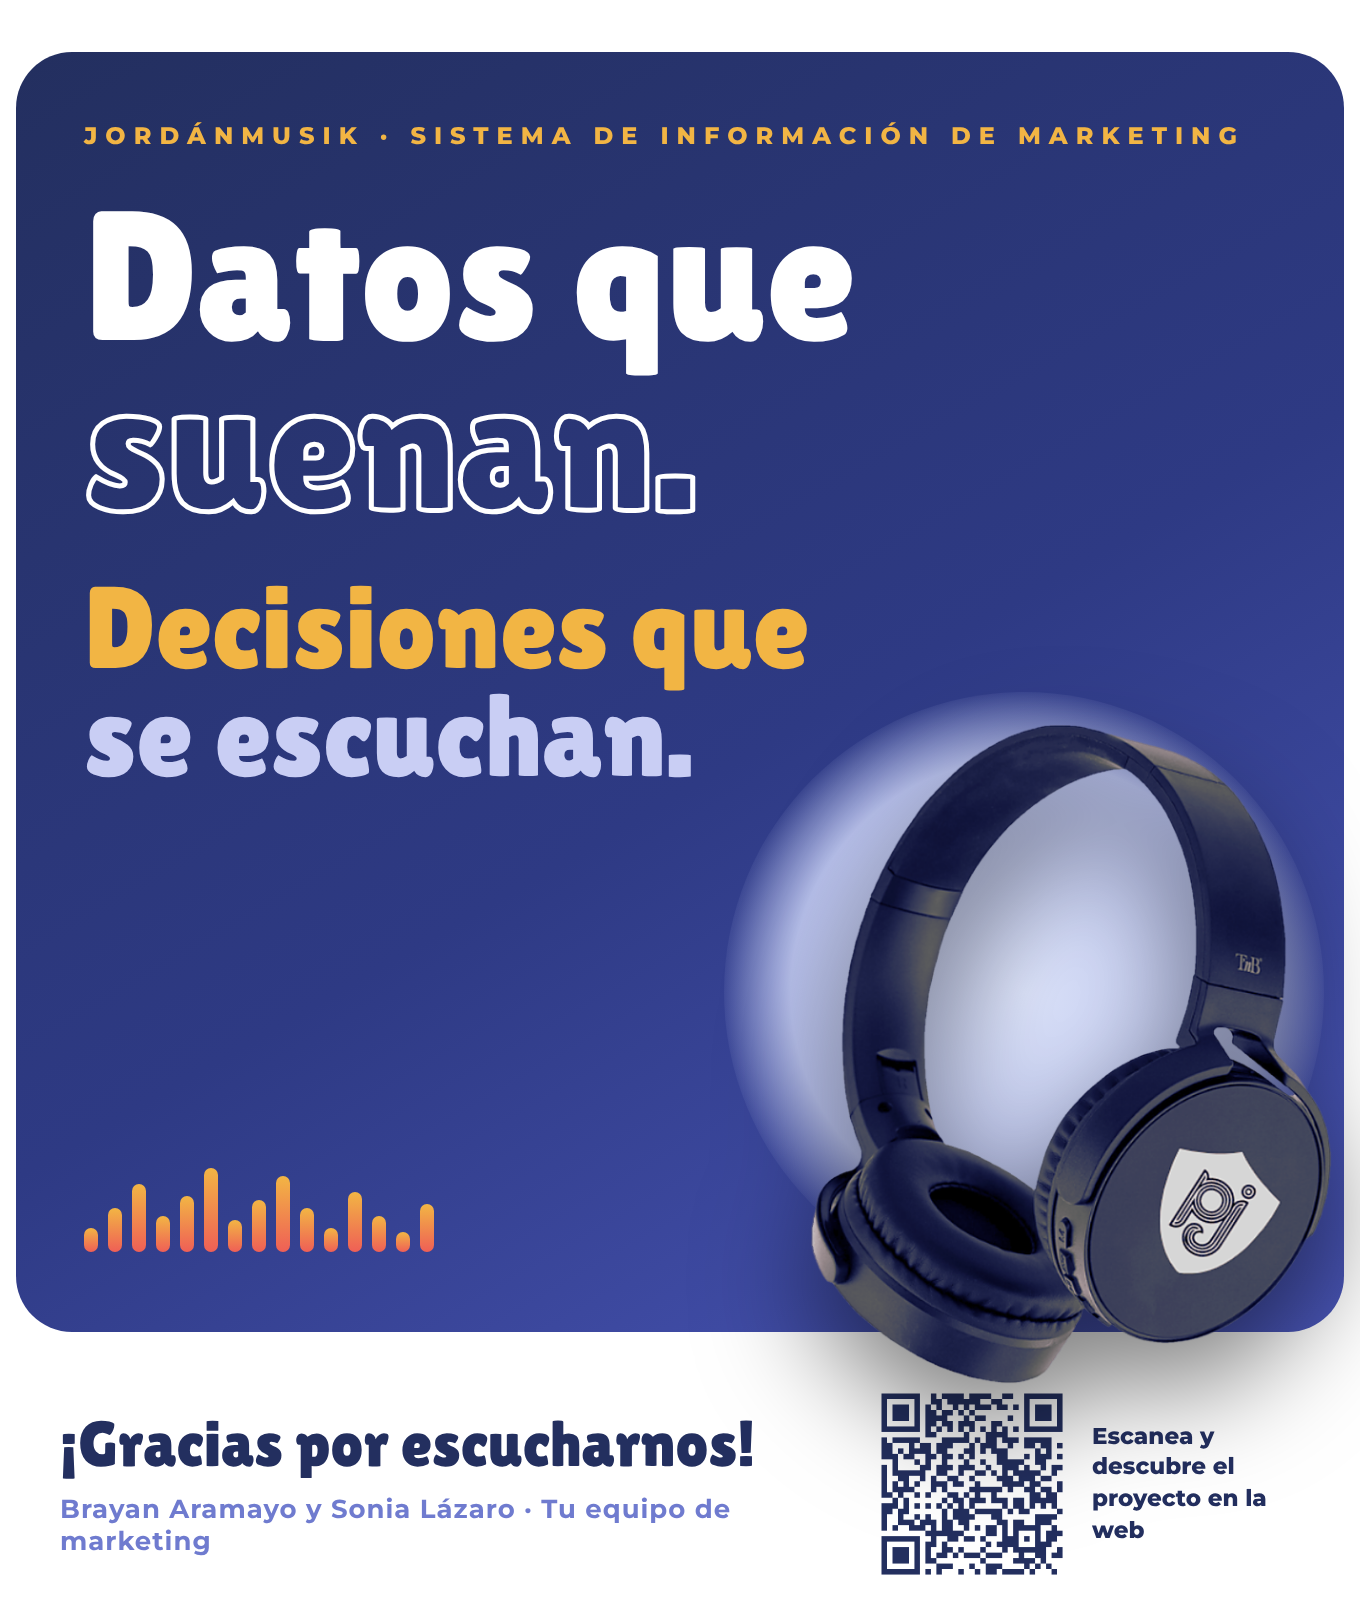
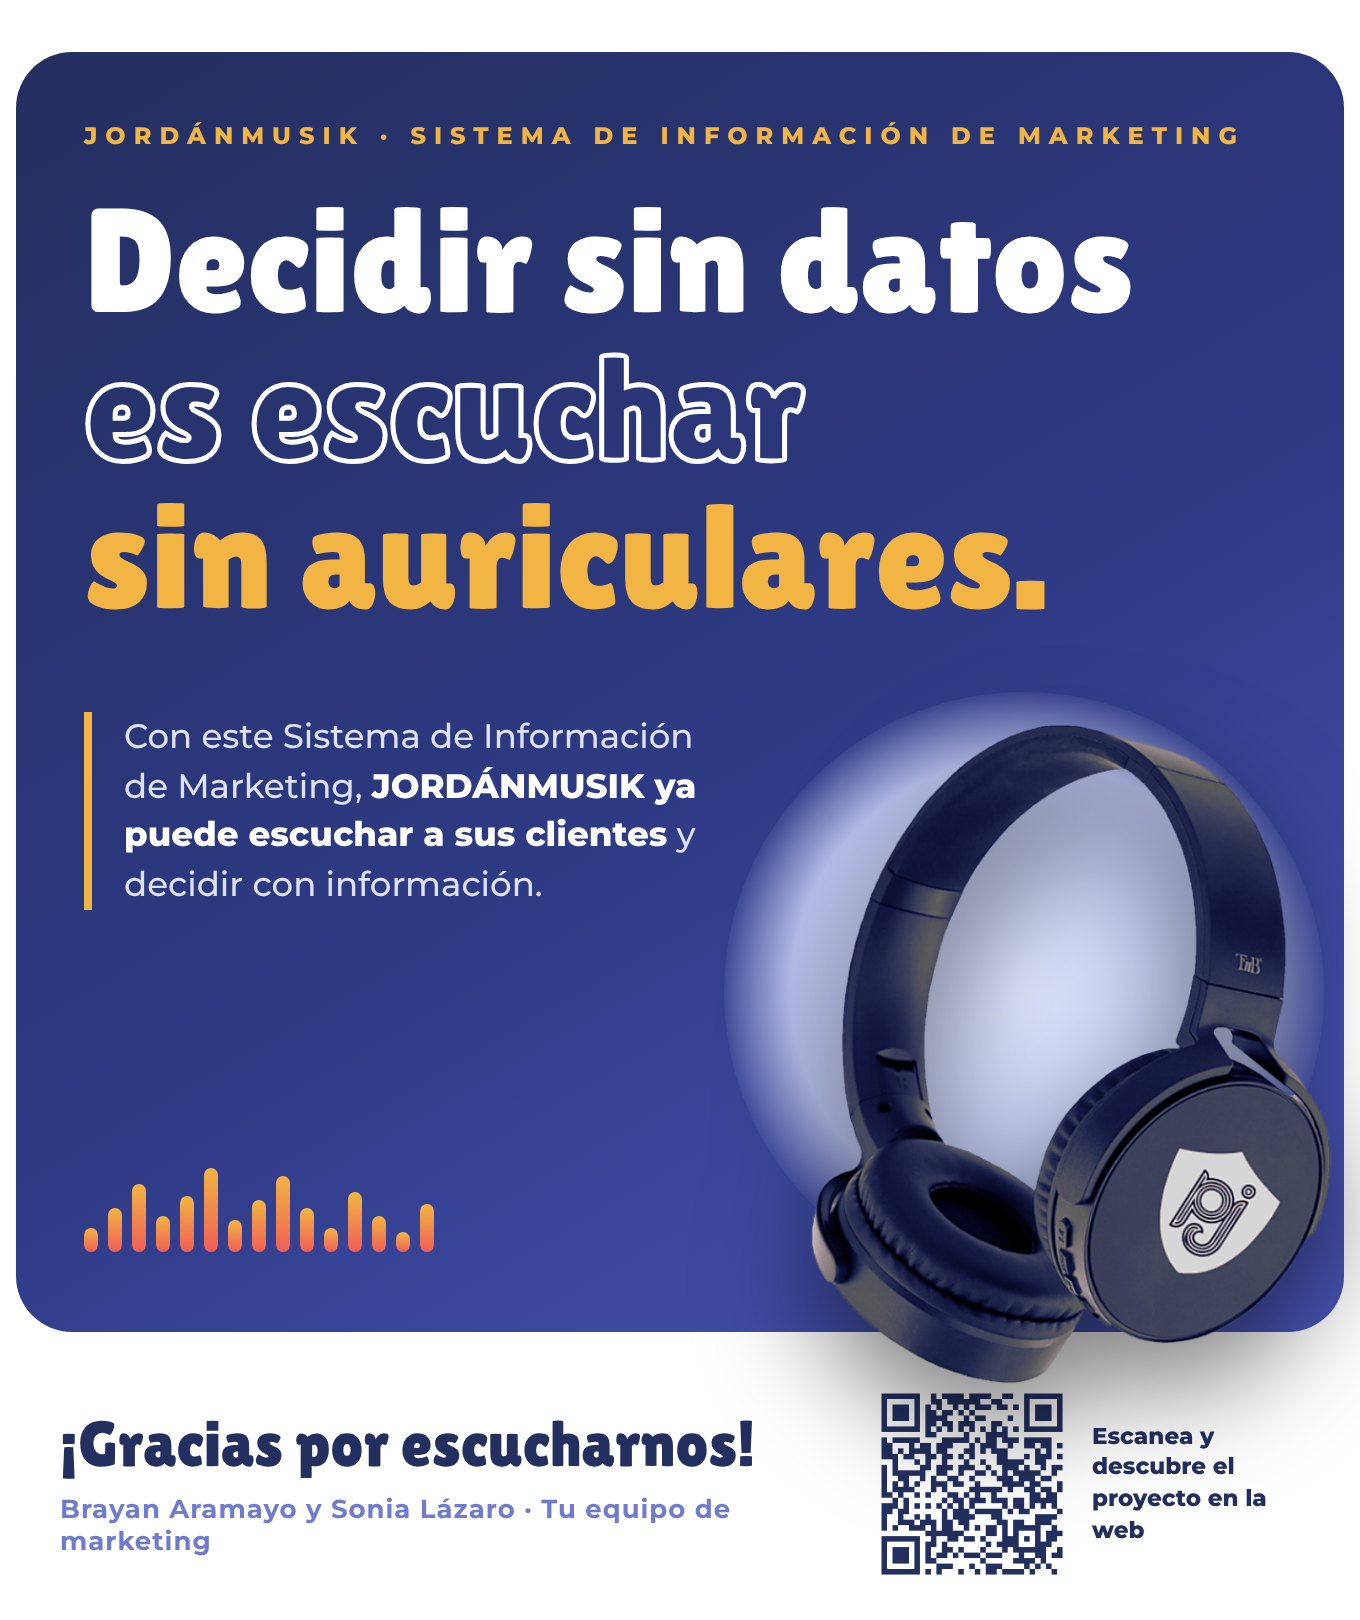
Página final con el eslogan «Decidir sin datos es escuchar sin auriculares»
Claude-Session: https://claude.ai/code/session_01QoRa6H288JEqWWG4NNqZ48

Changed region(s): [[0.0618, 0.1235, 0.8338, 0.5556]]

diff --git a/final/diseno_gracias.html b/final/diseno_gracias.html
@@ -8,12 +8,14 @@ body{background:transparent;font-family:Mont,sans-serif;color:var(--navy)}
 .hero{position:relative;background:linear-gradient(150deg,#232F5F 0%,#2E3A84 55%,#4A56B8 100%);border-radius:28px;height:640px;color:#fff;overflow:visible}
 .hero .k{position:absolute;left:34px;top:34px;font-size:12px;font-weight:800;letter-spacing:4px;color:var(--gold)}
 .slogan{position:absolute;left:34px;top:70px;z-index:2;font-family:Lilita;font-weight:400;line-height:.92}
-.slogan .l1{font-size:92px;display:block}
-.slogan .l2{font-size:92px;display:block;color:transparent;-webkit-text-stroke:2.5px #fff}
-.slogan .l3{font-size:58px;display:block;margin-top:22px;color:var(--gold)}
+.slogan .l1{font-size:74px;display:block}
+.slogan .l2{font-size:74px;display:block;margin-top:6px;color:transparent;-webkit-text-stroke:2.5px #fff}
+.slogan .l3{font-size:74px;display:block;margin-top:6px;color:var(--gold)}
 .slogan .l4{font-size:58px;display:block;color:#C9CEF4}
 .disc{position:absolute;right:10px;bottom:20px;width:300px;height:300px;border-radius:50%;background:radial-gradient(circle,#DCE3FA 0%,#B9C2EE 55%,rgba(185,194,238,0) 72%)}
 .hero img{position:absolute;right:6px;bottom:-26px;height:330px;filter:drop-shadow(0 24px 28px rgba(0,0,0,.5))}
+.sub{position:absolute;left:34px;top:330px;width:330px;font-size:17px;line-height:1.45;font-weight:500;color:#DDE2F8;padding-left:16px;border-left:4px solid var(--gold);z-index:2}
+.sub b{color:#fff;font-weight:800}
 .wave{position:absolute;left:34px;bottom:40px;display:flex;gap:5px;align-items:flex-end;height:46px}
 .wave i{display:block;width:7px;border-radius:4px;background:linear-gradient(180deg,#F2B544,#EF5F56)}
 .foot{display:grid;grid-template-columns:1fr auto;gap:16px;align-items:stretch}
@@ -27,11 +29,11 @@ body{background:transparent;font-family:Mont,sans-serif;color:var(--navy)}
  <div class="hero">
   <div class="k">JORDÁNMUSIK · SISTEMA DE INFORMACIÓN DE MARKETING</div>
   <div class="slogan">
-   <span class="l1">Datos que</span>
-   <span class="l2">suenan.</span>
-   <span class="l3">Decisiones que</span>
-   <span class="l4">se escuchan.</span>
+   <span class="l1">Decidir sin datos</span>
+   <span class="l2">es escuchar</span>
+   <span class="l3">sin auriculares.</span>
   </div>
+  <p class="sub">Con este Sistema de Información de Marketing, <b>JORDÁNMUSIK ya puede escuchar a sus clientes</b> y decidir con información.</p>
   <div class="wave" id="wave"></div>
   <div class="disc"></div><img src="jordanpods_hd.png" alt="">
  </div>
